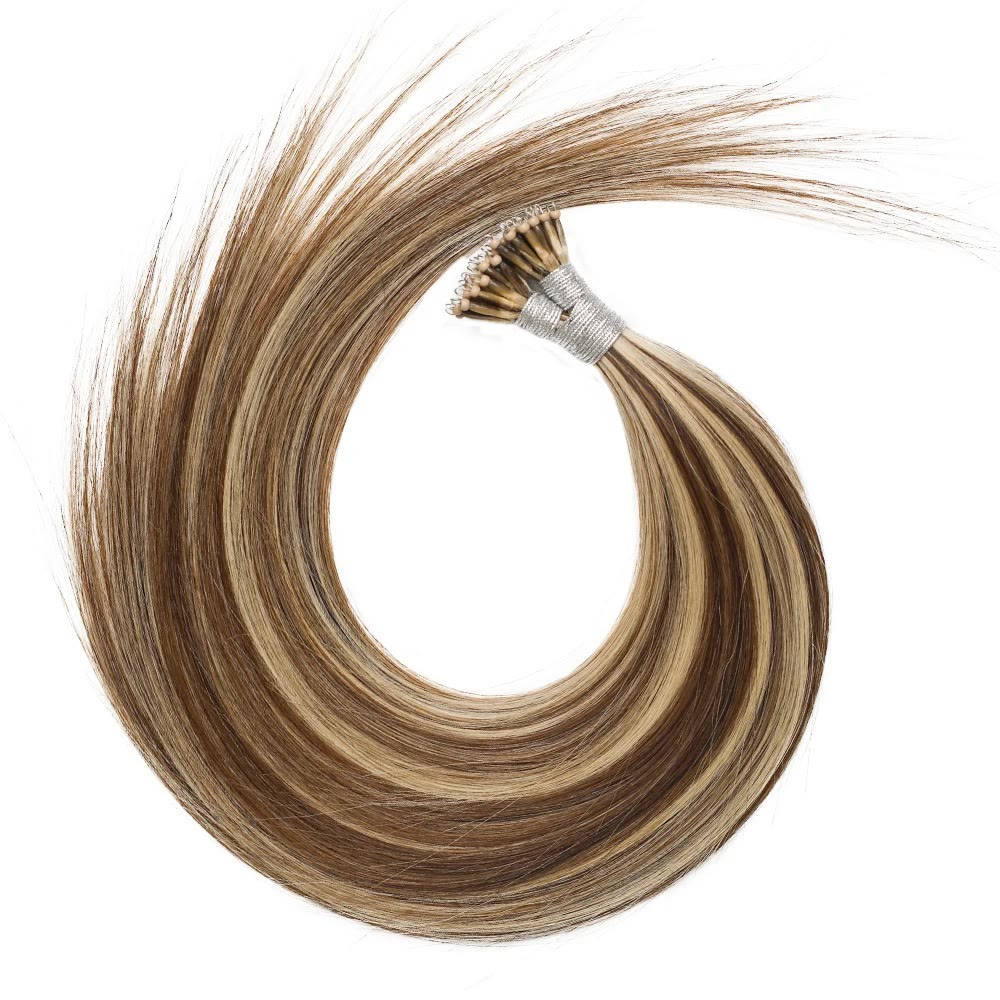
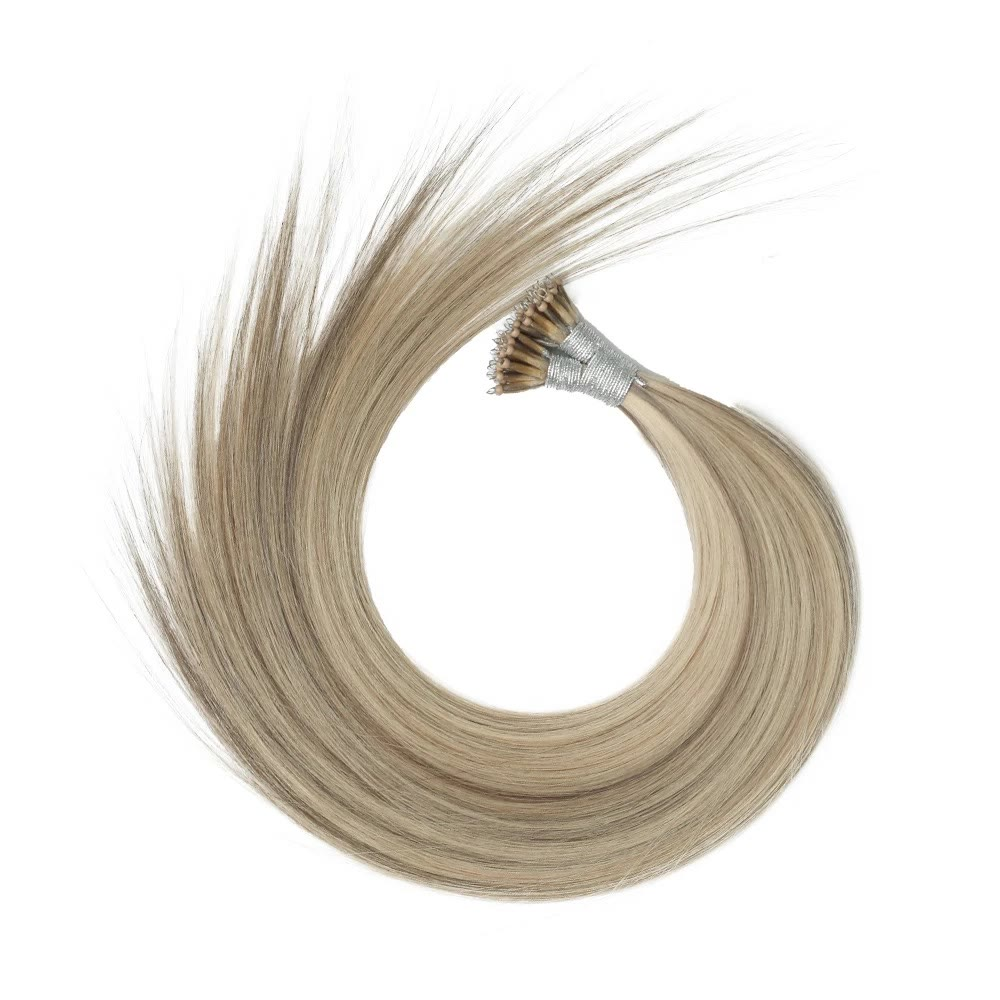
Match Nano Ring photos and names to supplier colours
Claude-Session: https://claude.ai/code/session_015XYF5t7iLpKZnBh7vCqiM9

diff --git a/products.js b/products.js
@@ -9,9 +9,9 @@ const CATALOGUE={
     supplier:"DIYOMO Official Store (AliExpress 1005012462195766)",
     lens:[14,16,18,20,22,24],costs:[26.71,28.85,30.99,33.13,34.73,38.46],wts:[["50g",1],["100g",1.81,{24:69.45}]],
     colours:[
-      ["01","Jet black",26.71,"nano-ring-01"],["02","Darkest brown",26.71,"nano-ring-02"],["04","Chestnut brown",26.71,"nano-ring-04"],["07","Warm medium brown",26.71,"nano-ring-07"],
-      ["1660","Brown with blonde highlights",26.71,"nano-ring-1660"],["18613","Ash and bleach blonde",26.71,"nano-ring-18613"],["760","Ash blonde balayage",26.71,"nano-ring-760"],
-      ["99J","Burgundy",26.71,"nano-ring-99j"],["T416","Brown with honey highlights",26.71,"nano-ring-t416"]],
+      ["01","Jet black",26.71,"nano-ring-01"],["02","Darkest brown",26.71,"nano-ring-02"],["04","Warm chestnut brown",26.71,"nano-ring-04"],["07","Ash medium brown",26.71,"nano-ring-07"],
+      ["1660","Ash blonde",26.71,"nano-ring-1660"],["18613","Golden blonde highlights",26.71,"nano-ring-18613"],["760","Honey brown highlights",26.71,"nano-ring-760"],
+      ["99J","Burgundy",26.71,"nano-ring-99j"],["T416","Brown with blonde highlights",26.71,"nano-ring-t416"]],
     blurb:"Tiny nano rings hold each strand with no glue, heat or tape. They sit flat and hide easily, even in fine hair. Made from 100% virgin Remy hair with the cuticles aligned, so it stays smooth and tangle-free. With good care it lasts up to 12 months, and it can be straightened, curled or toned.",
     specs:[["Hair","100% virgin Remy human hair"],["Method","Nano ring / micro bead, straight tip"],["Texture","Silky straight"],["Lengths",'14" to 24"'],["Pack","50g or 100g"],["Lifespan","Up to 12 months with care"],["Full head","150–200g (3–4 packs of 50g)"]]
   },

diff --git a/index.html b/index.html
@@ -194,7 +194,7 @@ footer.site{border-top:1px solid var(--line);margin-top:56px;padding-block:44px 
       </div>
     </div>
     <div class="hero-art">
-      <img src="images/nano-ring-760.jpg" alt="Nano ring tip extensions in ash blonde balayage" style="width:100%;height:100%;object-fit:cover;background:#fff">
+      <img src="images/nano-ring-760.jpg" alt="Nano ring tip extensions in honey brown highlights" style="width:100%;height:100%;object-fit:cover;background:#fff">
       <a class="tag" href="product.html?p=nano-ring"><div><span>Featured</span>Nano Ring Tip Extensions · 50g</div><b>from £66.99</b></a>
     </div>
   </div>
